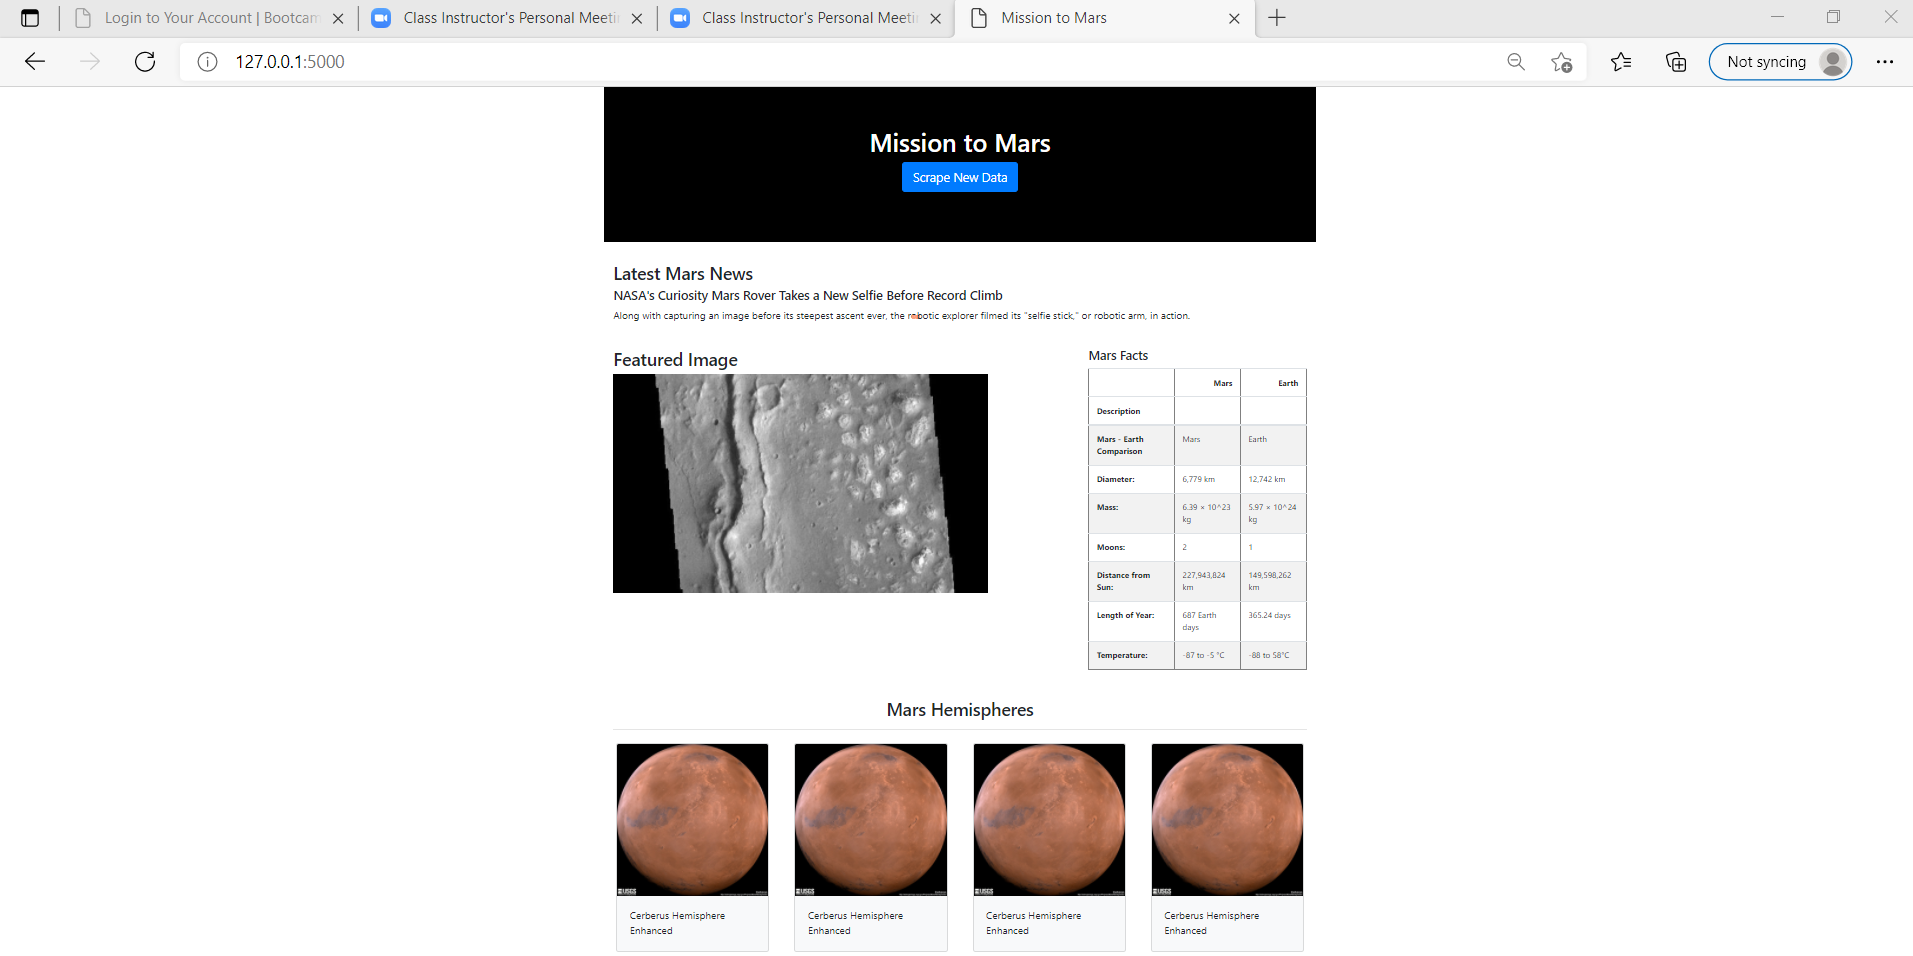
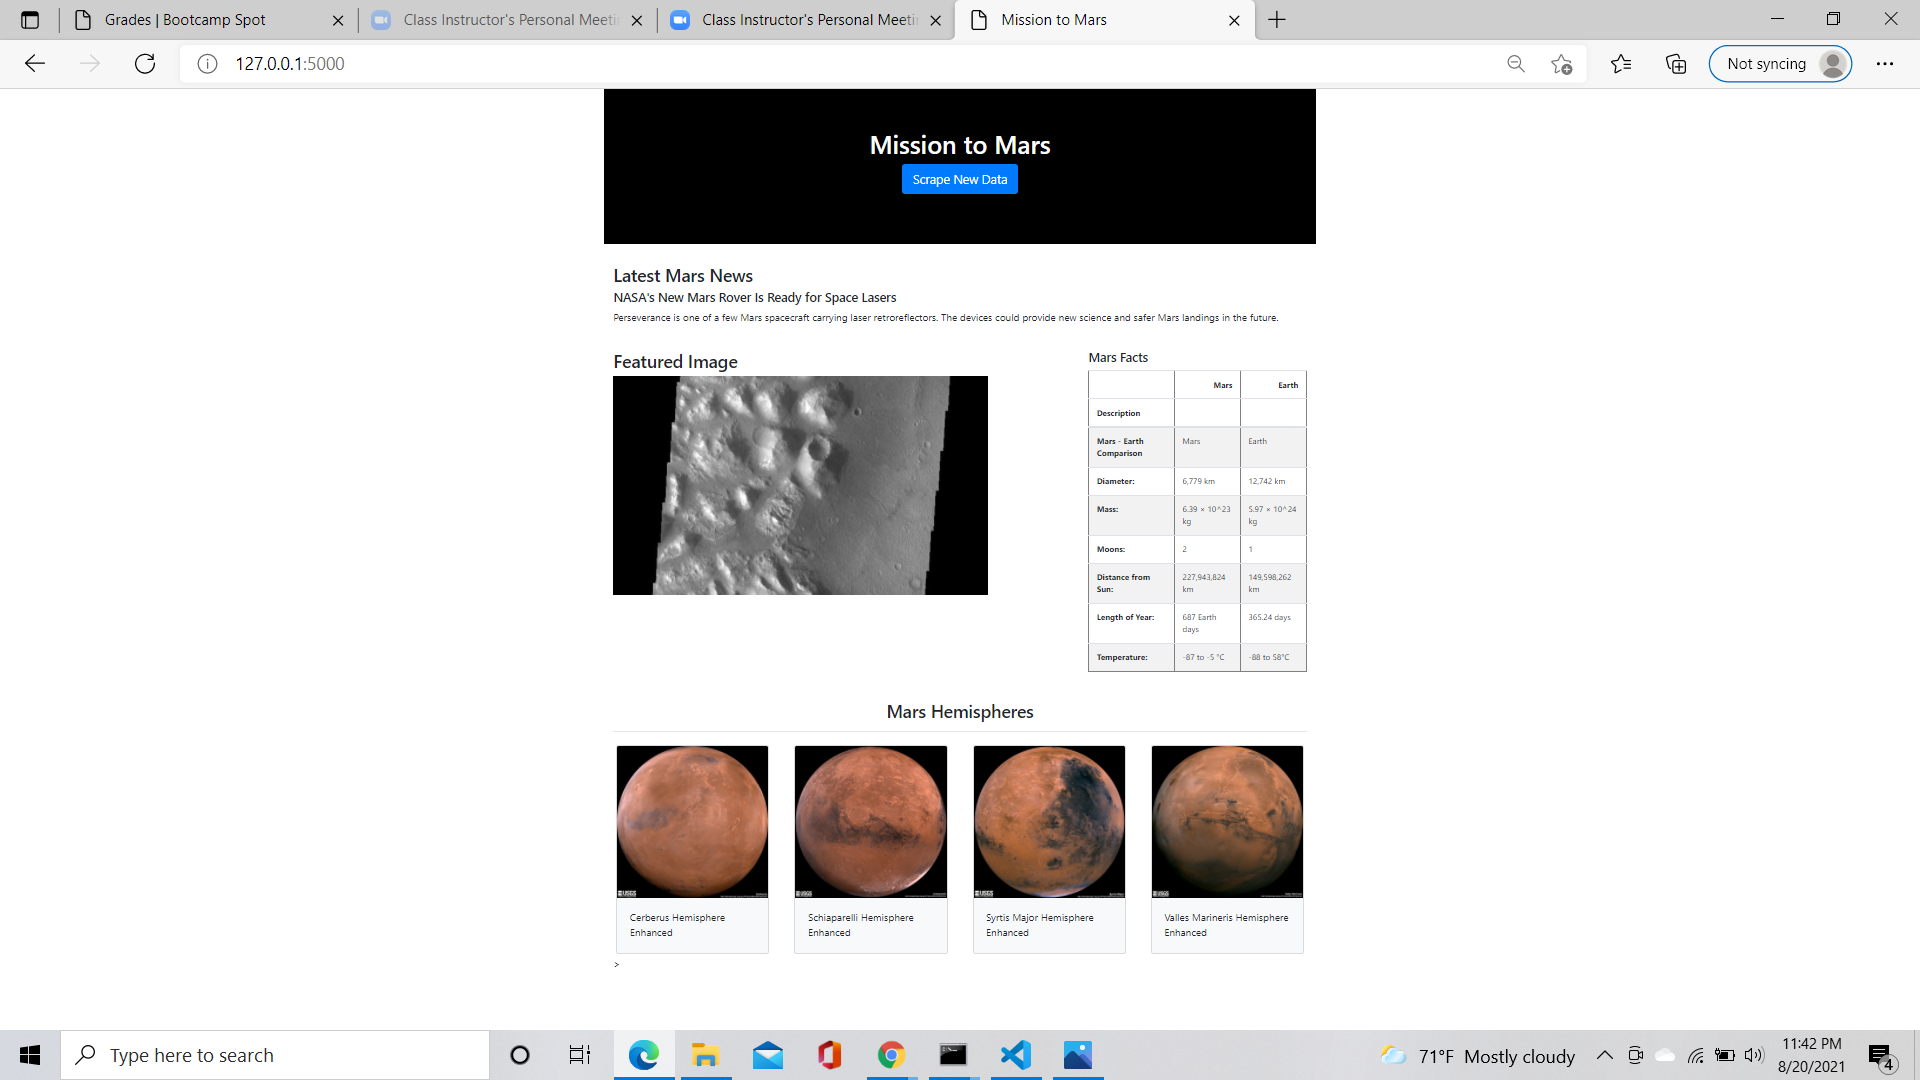
resolved duplicate hemisphere scrape

Changed region(s): [[0.2467, 0.1213, 1.0, 1.0], [0.0, 0.0, 1.0, 0.091], [0.0, 0.9404, 0.1542, 1.0]]

diff --git a/Mission_to_Mars/scrape_mars.py b/Mission_to_Mars/scrape_mars.py
@@ -70,35 +70,39 @@ def scrape_info():
     url = 'https://marshemispheres.com/'
     browser.visit(url)
 
-    hemisphere_image_urls = []
+    # HTML Object
+    html = browser.html
+
+    # Parse thru the HTML with Beautiful Soup
+    soup = BS(html, 'html.parser')
 
     # Identify list
-    Hem_Images = browser.links.find_by_partial_text('Hemisphere')
-    for item in range (len(Hem_Images)):
-        Hemisphere_Image = {}
-        
-        # Access each Hemisphere link
-        browser.links.find_by_partial_text('Hemisphere').click()
+    H_List = soup.find_all('div', class_= "item")
 
+    url = "https://marshemispheres.com/"
+
+    hemisphere_image_urls = []
+
+    for item in H_List:
+    
+        # Retrieve Title for Image and Image details
+        Title = item.find("h3").text
+        Image = item.find("a", class_= "itemLink product-item")["href"]
+    
+        # Access each Hemisphere link
+        browser.visit(url + Image)
+    
         # HTML Object
         html = browser.html
-
+    
         # Parse thru the HTML with Beautiful Soup
-        soup = BS(html, 'html.parser')
-
+        soup = BS(html, "html.parser")
+    
         # Retrieve the Full Size jpg Image URL
-        Image = soup.find('img', class_ = 'wide-image')
-        Hemisphere_Image['img_url'] = url + Image['src']
-
-        # Retrieve Title for Image
-        Title = soup.find('h2', class_ = 'title').text
-        Hemisphere_Image['title'] = Title
-
+        Image_URL = url + soup.find("img", class_= "wide-image")["src"]
+    
         # Append Data
-        hemisphere_image_urls.append(Hemisphere_Image)
-        
-        # Navigate back to main window
-        browser.links.find_by_partial_text('Back').click()
+        hemisphere_image_urls.append({"title" : Title, "img_url" : Image_URL})
 
     # Store Data in Dictionary
     mars_data = {
